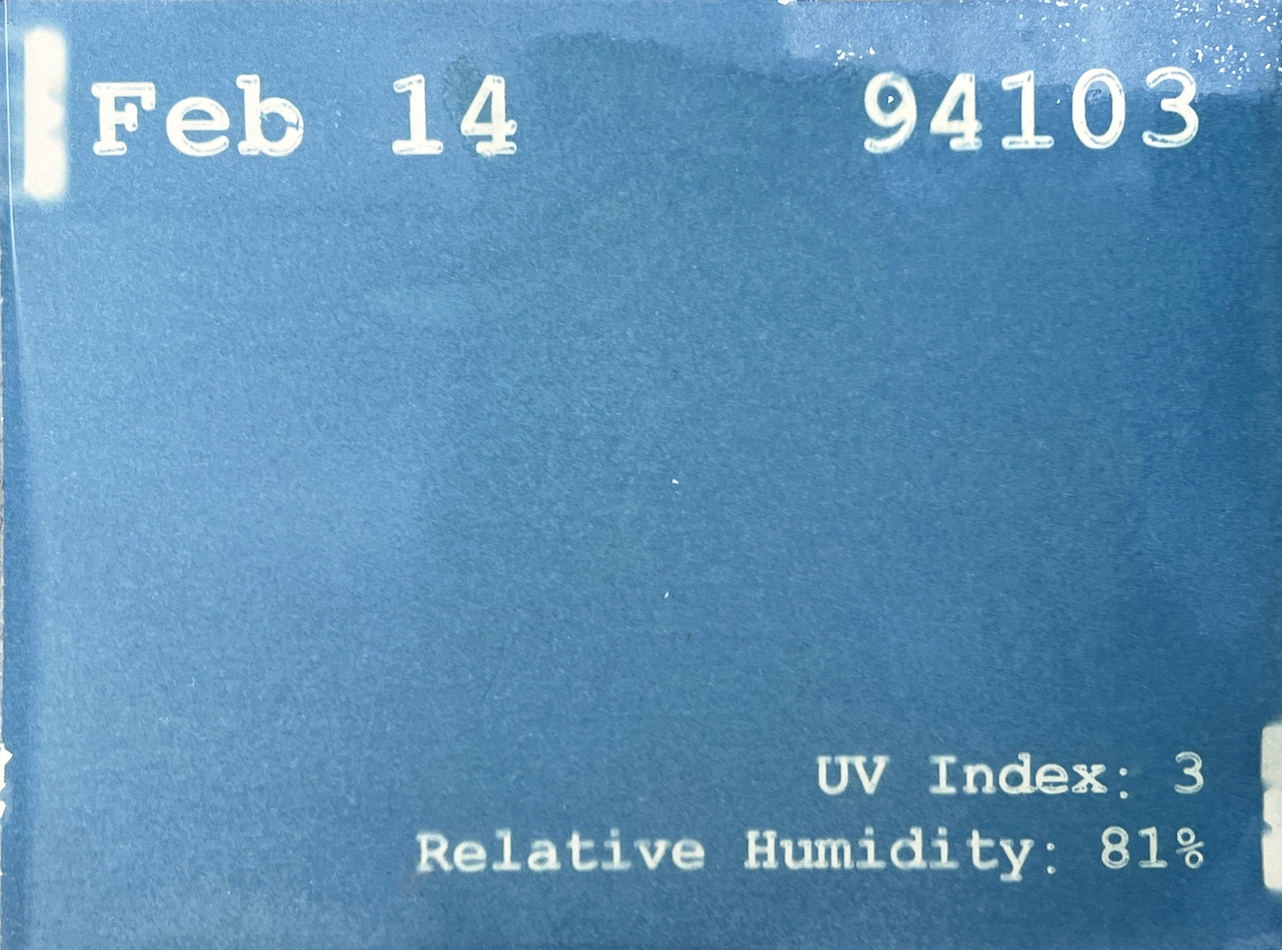
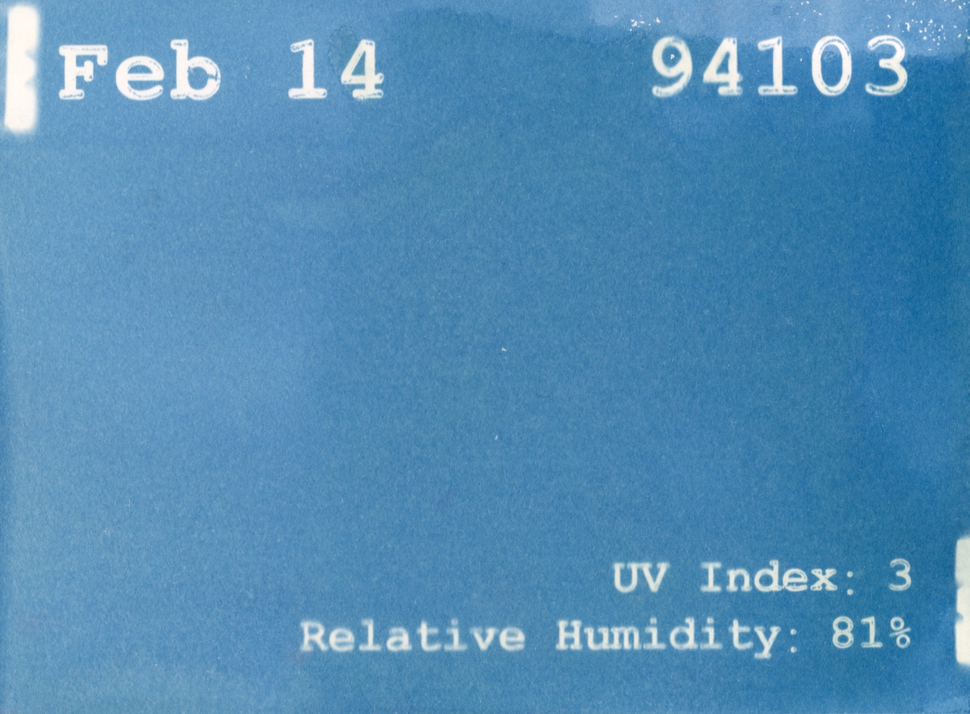
update index style and image

Changed region(s): [[0.0, 0.0, 1.0, 1.0], [0.7188, 0.4609, 0.75, 0.4916]]

diff --git a/index.html b/index.html
@@ -4,6 +4,12 @@
         <meta charset="UTF-8">
         <title>Marked.Blue</title>
         <link rel="stylesheet" href="stylesheet/style.css">
+        
+
+        <!-- Fonts -->
+        <link rel="preconnect" href="https://fonts.googleapis.com">
+        <link rel="preconnect" href="https://fonts.gstatic.com" crossorigin>
+        <link href="https://fonts.googleapis.com/css2?family=Inconsolata:wght@200..900&display=swap" rel="stylesheet">
     </head>
     <body>
         <div class="mainTitle">

diff --git a/publication/20250215/20240215.html b/publication/20250215/20240215.html
@@ -16,7 +16,7 @@
             <a href="">Customization</a>
         </div>
         <div class="content">
-            <img src="images/20250214.jpg" alt="Marked.Blue Process" class="processImage">
+            <img src="images/20250215.jpg" alt="Marked.Blue Process" class="processImage">
         </div>
         <div class="footer">
             <p>© 2023 Marked.Blue. All rights reserved.</p>

diff --git a/publication/20250216/20240216.html b/publication/20250216/20240216.html
@@ -16,7 +16,7 @@
             <a href="">Customization</a>
         </div>
         <div class="content">
-            <img src="images/20250214.jpg" alt="Marked.Blue Process" class="processImage">
+            <img src="images/20250216.jpg" alt="Marked.Blue Process" class="processImage">
         </div>
         <div class="footer">
             <p>© 2023 Marked.Blue. All rights reserved.</p>

diff --git a/stylesheet/style.css b/stylesheet/style.css
@@ -1,0 +1,9 @@
+h1 {
+    font-family: "Inconsolata", monospace;
+    font-size: large;
+}
+
+.processImage {
+    width: 80%;
+    height: auto;
+}
